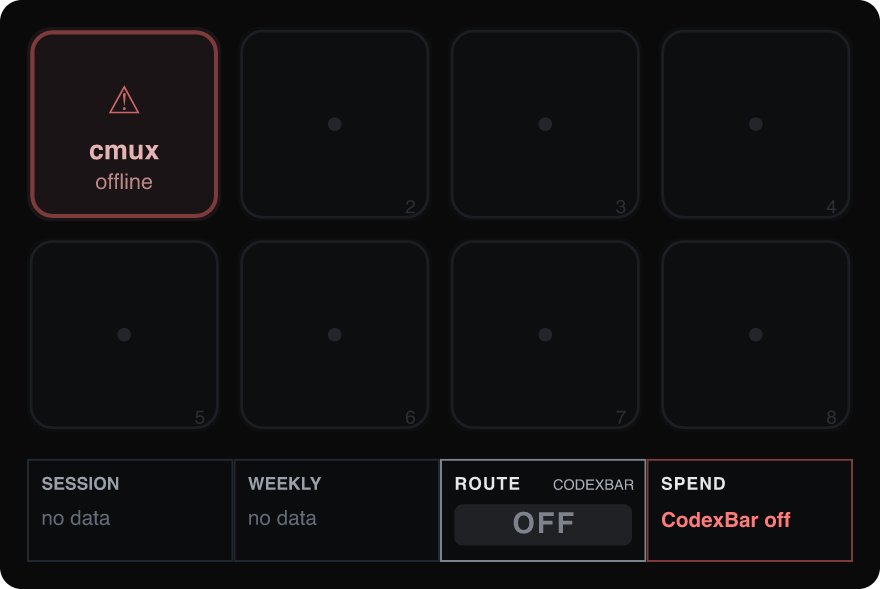
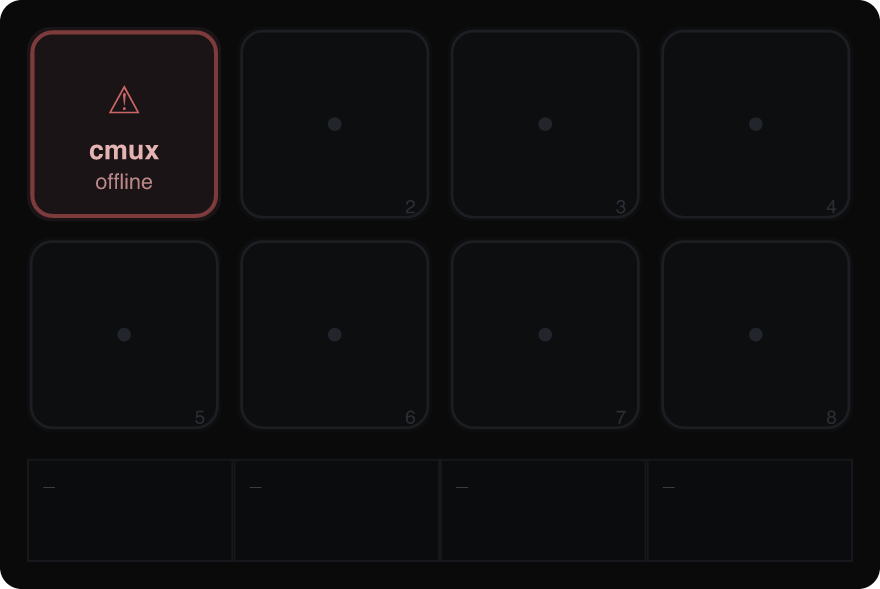
feat(lcd): show all providers at a glance (one per segment)
The previous LCD showed one provider across four facets (session / weekly /
status / spend) and a "ROUTE OK" status that wasn't actionable. Replace it with
one provider per segment so all CodexBar providers are visible at once — each
segment shows the provider name (colored by health), today's spend, session +
weekly gauges with % remaining, and the session reset.

- lcdRender: add renderProviderSegment; renderLcdSegments now takes a provider
  list and renders one per segment (muted blank for empties)
- Remove the per-window/route/spend segment functions and provider cycling
  (store.cycleProvider/currentProvider, AppState.providerIndex, dial-3 rotate)
- config: poll codex, claude, minimax, kimi by default
- dialStrip: render providers[col]; update dial map (D3/D4 rotate now unused)
- Add minimax fixture; update preview/tests; refresh dashboard screenshots

diff --git a/src/core/render/lcdRender.ts b/src/core/render/lcdRender.ts
@@ -30,34 +30,46 @@ function bar(x: number, y: number, w: number, h: number, usedPercent: number): s
     <rect x="${x}" y="${y}" width="${fillW}" height="${h}" rx="${h / 2}" fill="${color}"/>`;
 }
 
-/**
- * Segment 1 / 2: a single usage window (session or weekly) with a percent,
- * a gauge, and a reset countdown.
- */
-export function renderUsageSegment(
-  heading: string,
-  win: UsageWindow | undefined,
-  ctx: LcdRenderContext,
-): string {
+/** One quota row (session or weekly): label, gauge, and % remaining. */
+function quotaRow(y: number, label: string, win: UsageWindow | undefined): string {
   if (!win) {
-    return segFrame(
-      `<text x="14" y="30" font-size="17" font-weight="700" fill="#9aa0aa">${escapeXml(heading)}</text>
-       <text x="14" y="64" font-size="20" fill="#666c76">no data</text>`,
-    );
+    return `<text x="12" y="${y}" font-size="13" fill="#5a606a">${label}  —</text>`;
   }
   const used = win.usedPercent;
-  const remaining = formatPercent(win.remainingPercent);
-  const reset = formatCountdown(win.resetsAt, ctx.nowMs);
-  const staleTag = ctx.stale
-    ? `<text x="${SEG_W - 12}" y="30" font-size="13" text-anchor="end" fill="#ffb02e">STALE</text>`
-    : "";
+  return `<text x="12" y="${y}" font-size="13" font-weight="700" fill="#aeb4be">${label}</text>
+    ${bar(30, y - 9, 116, 9, used)}
+    <text x="${SEG_W - 12}" y="${y}" font-size="14" font-weight="700" text-anchor="end" fill="${usageColor(used)}">${formatPercent(win.remainingPercent)}</text>`;
+}
+
+/**
+ * One LCD segment = one CodexBar provider, at a glance: name (colored by
+ * health), today's spend, session + weekly gauges, and the session reset.
+ */
+export function renderProviderSegment(usage: ProviderUsage | undefined, ctx: LcdRenderContext): string {
+  if (!usage) {
+    return segFrame(`<text x="14" y="32" font-size="15" fill="#3a3d44">—</text>`, "#16181c");
+  }
+  const name = shortProvider((usage.provider || "?").toUpperCase());
+  const nameColor = ROUTE_COLOR[routeStatus(usage, ctx.stale)];
+
+  if (!usage.ok) {
+    return segFrame(
+      `<text x="12" y="26" font-size="18" font-weight="800" fill="${nameColor}" letter-spacing="1">${escapeXml(name)}</text>
+       <text x="12" y="58" font-size="17" font-weight="700" fill="#ff7a7a">offline</text>
+       ${usage.error ? `<text x="12" y="80" font-size="11" fill="#8a909a">${escapeXml(shortError(usage.error))}</text>` : ""}`,
+      "#7d3b3b",
+    );
+  }
+
+  const cost = usage.costTodayEur !== undefined ? formatEur(usage.costTodayEur) : "";
+  const resetLine = `reset ${formatCountdown(usage.session?.resetsAt, ctx.nowMs)}${ctx.stale ? " · stale" : ""}`;
   return segFrame(
-    `<text x="14" y="30" font-size="17" font-weight="800" fill="#e6e8ec" letter-spacing="1">${escapeXml(heading)}</text>
-     ${staleTag}
-     <text x="14" y="62" font-size="30" font-weight="800" fill="${usageColor(used)}">${remaining}</text>
-     <text x="${SEG_W - 12}" y="62" font-size="16" text-anchor="end" fill="#aeb4be">left</text>
-     ${bar(14, 72, SEG_W - 28, 10, used)}
-     <text x="14" y="96" font-size="13" fill="#aeb4be">reset ${escapeXml(reset)}</text>`,
+    `<text x="12" y="24" font-size="18" font-weight="800" fill="${nameColor}" letter-spacing="1">${escapeXml(name)}</text>
+     ${cost ? `<text x="${SEG_W - 12}" y="23" font-size="13" text-anchor="end" fill="#aeb4be">${escapeXml(cost)}</text>` : ""}
+     ${quotaRow(50, "S", usage.session)}
+     ${quotaRow(72, "W", usage.weekly)}
+     <text x="12" y="92" font-size="12" fill="#8a909a">${escapeXml(resetLine)}</text>`,
+    nameColor,
   );
 }
 
@@ -80,49 +92,20 @@ const ROUTE_COLOR: Record<RouteStatus, string> = {
 };
 
 /** Segment 3: provider identity + status/health pill. */
-export function renderRouteSegment(usage: ProviderUsage | undefined, stale: boolean): string {
-  const status = routeStatus(usage, stale);
-  const color = ROUTE_COLOR[status];
-  const provider = (usage?.provider ?? "codexbar").toUpperCase();
-  return segFrame(
-    `<text x="14" y="30" font-size="17" font-weight="800" fill="#e6e8ec" letter-spacing="1">STATUS</text>
-     <text x="${SEG_W - 12}" y="30" font-size="14" text-anchor="end" fill="#aeb4be">${escapeXml(shortProvider(provider))}</text>
-     <rect x="14" y="44" width="${SEG_W - 28}" height="40" rx="8" fill="${color}" opacity="0.18"/>
-     <text x="${SEG_W / 2}" y="72" font-size="28" font-weight="800" text-anchor="middle" fill="${color}" letter-spacing="2">${status}</text>`,
-    color,
-  );
-}
-
-/** Segment 4: today's spend, or a fallback (offline / stale / error). */
-export function renderCostSegment(usage: ProviderUsage | undefined, ctx: LcdRenderContext): string {
-  if (!usage || !usage.ok) {
-    const msg = usage?.error ? shortError(usage.error) : "CodexBar off";
-    return segFrame(
-      `<text x="14" y="30" font-size="17" font-weight="800" fill="#e6e8ec" letter-spacing="1">SPEND</text>
-       <text x="14" y="66" font-size="20" font-weight="700" fill="#ff7a7a">${escapeXml(msg)}</text>`,
-      "#7d3b3b",
-    );
-  }
-  const cost = formatEur(usage.costTodayEur);
-  const staleLine = ctx.stale ? "data stale" : "today";
-  return segFrame(
-    `<text x="14" y="30" font-size="17" font-weight="800" fill="#e6e8ec" letter-spacing="1">SPEND</text>
-     <text x="14" y="68" font-size="34" font-weight="800" fill="#e6e8ec">${escapeXml(cost)}</text>
-     <text x="14" y="92" font-size="14" fill="#aeb4be">${escapeXml(staleLine)}</text>`,
-    ctx.stale ? "#ffb02e" : "#222831",
-  );
-}
-
 /**
- * Render all four segments for a provider in display order:
- * [session, weekly, route, cost].
+ * Render the four touch-strip segments — one CodexBar provider per dial, so all
+ * providers are visible at a glance. `usages` is taken in display order; missing
+ * entries render as muted blanks.
  */
-export function renderLcdSegments(usage: ProviderUsage | undefined, ctx: LcdRenderContext): [string, string, string, string] {
-  return [
-    renderUsageSegment("SESSION", usage?.session, ctx),
-    renderUsageSegment("WEEKLY", usage?.weekly, ctx),
-    renderRouteSegment(usage, ctx.stale),
-    renderCostSegment(usage, ctx),
+export function renderLcdSegments(
+  usages: (ProviderUsage | undefined)[],
+  ctx: LcdRenderContext,
+): [string, string, string, string] {
+  return [0, 1, 2, 3].map((i) => renderProviderSegment(usages[i], ctx)) as [
+    string,
+    string,
+    string,
+    string,
   ];
 }
 

diff --git a/test/render.test.ts b/test/render.test.ts
@@ -40,26 +40,34 @@ test("renderEmptyKey and renderCmuxOffline produce valid muted SVGs", () => {
   assert.match(offline, /offline/);
 });
 
-test("renderLcdSegments shows session, weekly, route, and spend", () => {
-  const usage = normalizeUsageResponse(loadFixture("codexbar-usage-codex.json"), "codex");
-  usage.costTodayEur = 4.2;
-  const [session, weekly, route, cost] = renderLcdSegments(usage, { nowMs: NOW_MS, stale: false });
-  assert.match(session, /SESSION/);
-  assert.match(session, /99%/); // 100 - usedPercent
-  assert.match(weekly, /WEEKLY/);
-  assert.match(weekly, /75%/);
-  assert.match(route, /STATUS/);
-  assert.match(route, /OK/);
-  assert.match(cost, /€4\.20/);
+test("renderLcdSegments shows one provider per segment, all at a glance", () => {
+  const codex = normalizeUsageResponse(loadFixture("codexbar-usage-codex.json"), "codex");
+  codex.costTodayEur = 4.2;
+  const claude = normalizeUsageResponse(loadFixture("codexbar-usage-claude.json"), "claude");
+  const kimi = normalizeUsageResponse(loadFixture("codexbar-usage-kimi.json"), "kimi");
+
+  const [s0, s1, s2, s3] = renderLcdSegments([codex, claude, kimi, undefined], {
+    nowMs: NOW_MS,
+    stale: false,
+  });
+  // codex: name + session 99% left + weekly 75% left + cost
+  assert.match(s0, /CODEX/);
+  assert.match(s0, /99%/);
+  assert.match(s0, /75%/);
+  assert.match(s0, /€4\.20/);
+  // claude visible in its own segment
+  assert.match(s1, /CLAUDE/);
+  assert.match(s1, /97%/);
+  // kimi (error) shows offline
+  assert.match(s2, /KIMI/);
+  assert.match(s2, /offline/);
+  // empty slot is muted
+  assert.match(s3, /—/);
 });
 
-test("route/cost segments reflect offline + stale states", () => {
-  const offlineSegs = renderLcdSegments(undefined, { nowMs: NOW_MS, stale: false });
-  assert.match(offlineSegs[2], /OFF/);
-  assert.match(offlineSegs[3], /CodexBar off/);
-
-  const usage = normalizeUsageResponse(loadFixture("codexbar-usage-codex.json"), "codex");
-  const staleSegs = renderLcdSegments(usage, { nowMs: NOW_MS, stale: true });
-  assert.match(staleSegs[0], /STALE/);
-  assert.equal(routeStatus(usage, true), "STALE");
+test("provider segment marks stale data", () => {
+  const codex = normalizeUsageResponse(loadFixture("codexbar-usage-codex.json"), "codex");
+  const [seg] = renderLcdSegments([codex], { nowMs: NOW_MS, stale: true });
+  assert.match(seg, /stale/);
+  assert.equal(routeStatus(codex, true), "STALE");
 });

diff --git a/src/actions/dialStrip.ts b/src/actions/dialStrip.ts
@@ -20,12 +20,13 @@ const toDataUri = (svg: string): string =>
 /**
  * The Muxboard dial/touch-strip action (Stream Deck+ Encoder).
  *
- * One SingletonAction backs all four dials; the column (0..3) selects both the
- * LCD segment shown and the dial's behavior:
- *   col 0  SESSION   rotate=scroll attention   press=jump to newest
- *   col 1  WEEKLY    rotate=cycle agent filter press=reset filter
- *   col 2  ROUTE     rotate=cycle provider     press=open CodexBar source
- *   col 3  SPEND     (rotate unused)           press=force refresh
+ * One SingletonAction backs all four dials. Each segment shows one CodexBar
+ * provider (provider 0..3, in config order). The column (0..3) selects the
+ * dial's behavior:
+ *   col 0  rotate=scroll attention      press=jump to newest
+ *   col 1  rotate=cycle agent filter    press=reset filter
+ *   col 2  (rotate unused)              press=open CodexBar source
+ *   col 3  (rotate unused)              press=force refresh
  */
 @action({ UUID: "com.mrshu.muxboard.dial" })
 export class DialStripAction extends SingletonAction {
@@ -63,10 +64,7 @@ export class DialStripAction extends SingletonAction {
       case 1:
         this.runtime.store.cycleFilter(dir);
         break;
-      case 2:
-        this.runtime.store.cycleProvider(dir);
-        break;
-      // col 3: rotation unused in MVP
+      // cols 2 & 3: rotation unused (each segment is a fixed provider)
     }
   }
 
@@ -122,8 +120,9 @@ export class DialStripAction extends SingletonAction {
       Date.now(),
       this.runtime.codexbarService.staleThresholdMs,
     );
-    const usage = state.usage[state.providers[state.providerIndex] ?? "codex"];
-    const segments = renderLcdSegments(usage, { nowMs: Date.now(), stale });
+    // One provider per segment, in config order, so all are visible at a glance.
+    const usages = state.providers.map((p) => state.usage[p]);
+    const segments = renderLcdSegments(usages, { nowMs: Date.now(), stale });
     const svg = segments[col] ?? segments[0];
 
     if (this.lastSvg.get(a.id) === svg) return; // debounce

diff --git a/src/core/services/store.ts b/src/core/services/store.ts
@@ -32,7 +32,6 @@ export class Store {
       cmuxOffline: false,
       usage: {},
       providers: providers.length > 0 ? [...providers] : ["codex"],
-      providerIndex: 0,
       codexbarUpdatedAtMs: null,
       codexbarOffline: false,
     };
@@ -118,23 +117,5 @@ export class Store {
     this.state = { ...this.state, filter: "all", offset: 0 };
     this.recompute();
     this.emit();
-  }
-
-  // ---- dial 3: provider selection ------------------------------------------
-  cycleProvider(dir: 1 | -1): void {
-    const n = this.state.providers.length;
-    if (n <= 1) return;
-    const providerIndex = (this.state.providerIndex + dir + n) % n;
-    this.state = { ...this.state, providerIndex };
-    this.emit();
-  }
-
-  /** The provider currently shown on the LCD. */
-  currentProvider(): string {
-    return this.state.providers[this.state.providerIndex] ?? this.state.providers[0] ?? "codex";
-  }
-
-  currentUsage(): ProviderUsage | undefined {
-    return this.state.usage[this.currentProvider()];
   }
 }

diff --git a/scripts/preview.ts b/scripts/preview.ts
@@ -46,9 +46,13 @@ function main(): void {
 
   // --- LCD -----------------------------------------------------------------
   const codexRaw = loadFixture("codexbar-usage-codex.json");
-  const usage = normalizeUsageResponse(codexRaw, "codex");
-  usage.costTodayEur = extractCostToday(loadFixture("codexbar-cost-codex.json"));
-  const segs = renderLcdSegments(usage, { nowMs, stale: false });
+  const codex = normalizeUsageResponse(codexRaw, "codex");
+  codex.costTodayEur = extractCostToday(loadFixture("codexbar-cost-codex.json"));
+  const claude = normalizeUsageResponse(loadFixture("codexbar-usage-claude.json"), "claude");
+  const minimax = normalizeUsageResponse(loadFixture("codexbar-usage-minimax.json"), "minimax");
+  const kimi = normalizeUsageResponse(loadFixture("codexbar-usage-kimi.json"), "kimi");
+  const usages = [codex, claude, minimax, kimi];
+  const segs = renderLcdSegments(usages, { nowMs, stale: false });
   segs.forEach((svg, i) => writeFileSync(join(outDir, `lcd-${i + 1}.png`), svgToPng(svg, SEG_W)));
 
   // --- Composite dashboard -------------------------------------------------
@@ -57,7 +61,7 @@ function main(): void {
 
   // --- Offline scenario (acceptance #6) ------------------------------------
   const offlineKeys = [renderCmuxOffline(), ...Array.from({ length: 7 }, (_, i) => renderEmptyKey(i + 2))];
-  const offlineSegs = renderLcdSegments(undefined, { nowMs, stale: true });
+  const offlineSegs = renderLcdSegments([], { nowMs, stale: true });
   writeFileSync(join(outDir, "dashboard-offline.png"), svgToPng(composite(offlineKeys, offlineSegs), 880));
 
   console.log(`Rendered ${KEY_COUNT} keys + 4 LCD segments to ${outDir}`);

diff --git a/test/store.test.ts b/test/store.test.ts
@@ -31,13 +31,9 @@ test("agent filter narrows items and resets offset", () => {
   assert.equal(store.getState().filter, "all");
 });
 
-test("provider cycling wraps and selects current usage", () => {
-  const store = new Store(["codex", "claude"]);
-  assert.equal(store.currentProvider(), "codex");
-  store.cycleProvider(1);
-  assert.equal(store.currentProvider(), "claude");
-  store.cycleProvider(1);
-  assert.equal(store.currentProvider(), "codex");
+test("providers are kept in display order for the LCD segments", () => {
+  const store = new Store(["codex", "claude", "minimax", "kimi"]);
+  assert.deepEqual(store.getState().providers, ["codex", "claude", "minimax", "kimi"]);
 });
 
 test("scroll offset only moves when there are >8 items", () => {

diff --git a/src/core/types.ts b/src/core/types.ts
@@ -80,10 +80,8 @@ export interface AppState {
   cmuxOffline: boolean;
   /** CodexBar usage per provider, keyed by provider id. */
   usage: Record<string, ProviderUsage>;
-  /** Providers in cycle order (dial 3). */
+  /** Providers shown across the LCD segments, in display order. */
   providers: string[];
-  /** Index into providers for the LCD (dial 3). */
-  providerIndex: number;
   /** Epoch ms of the last successful CodexBar refresh. */
   codexbarUpdatedAtMs: number | null;
   /** True when CodexBar serve is unreachable. */

diff --git a/src/config.ts b/src/config.ts
@@ -29,7 +29,7 @@ export const DEFAULT_CONFIG: MuxboardConfig = {
   cmuxBin: "cmux",
   // 17777 keeps CodexBar's default 8080 free; run `codexbar serve --port 17777`.
   codexbarBaseUrl: "http://127.0.0.1:17777",
-  codexbarProviders: ["codex", "claude"],
+  codexbarProviders: ["codex", "claude", "minimax", "kimi"],
   cmuxPollMs: 1500,
   codexbarPollMs: 45000,
   enabledAgents: ["claude", "codex", "pi", "unknown"],